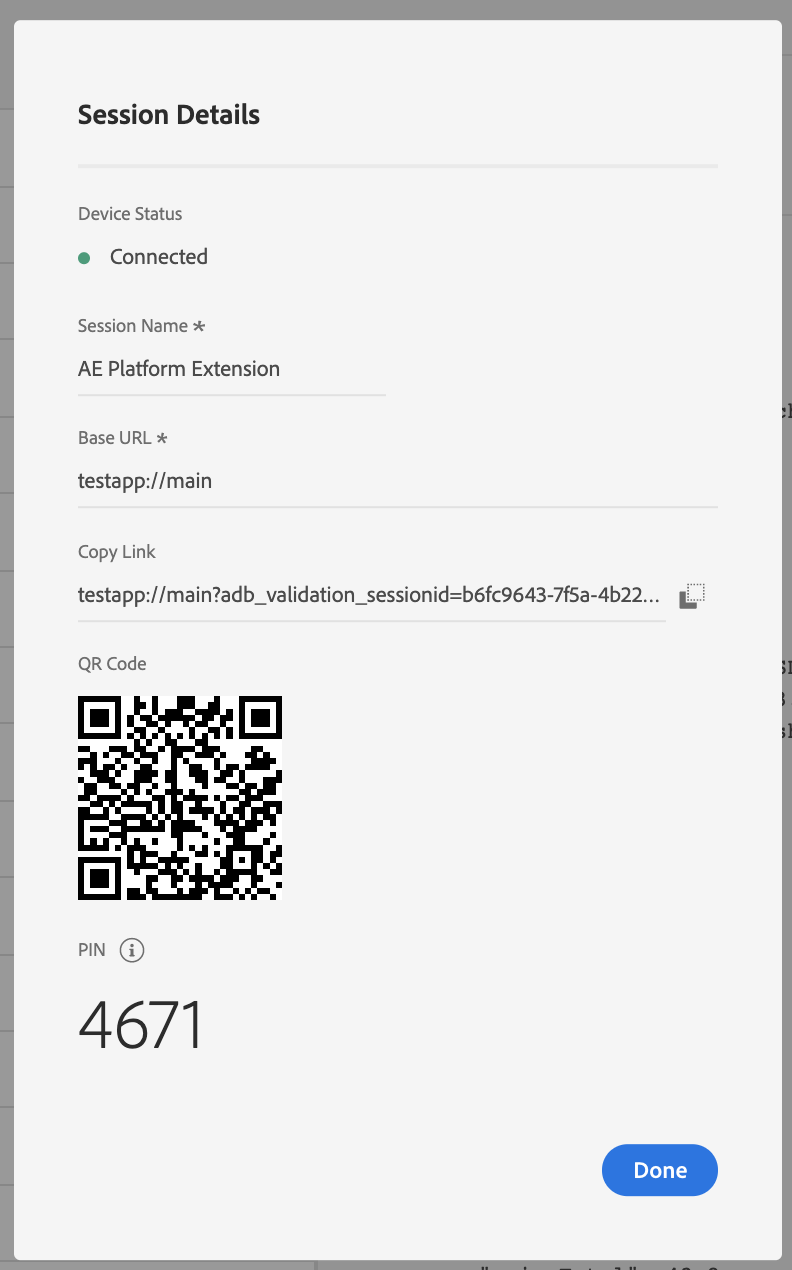
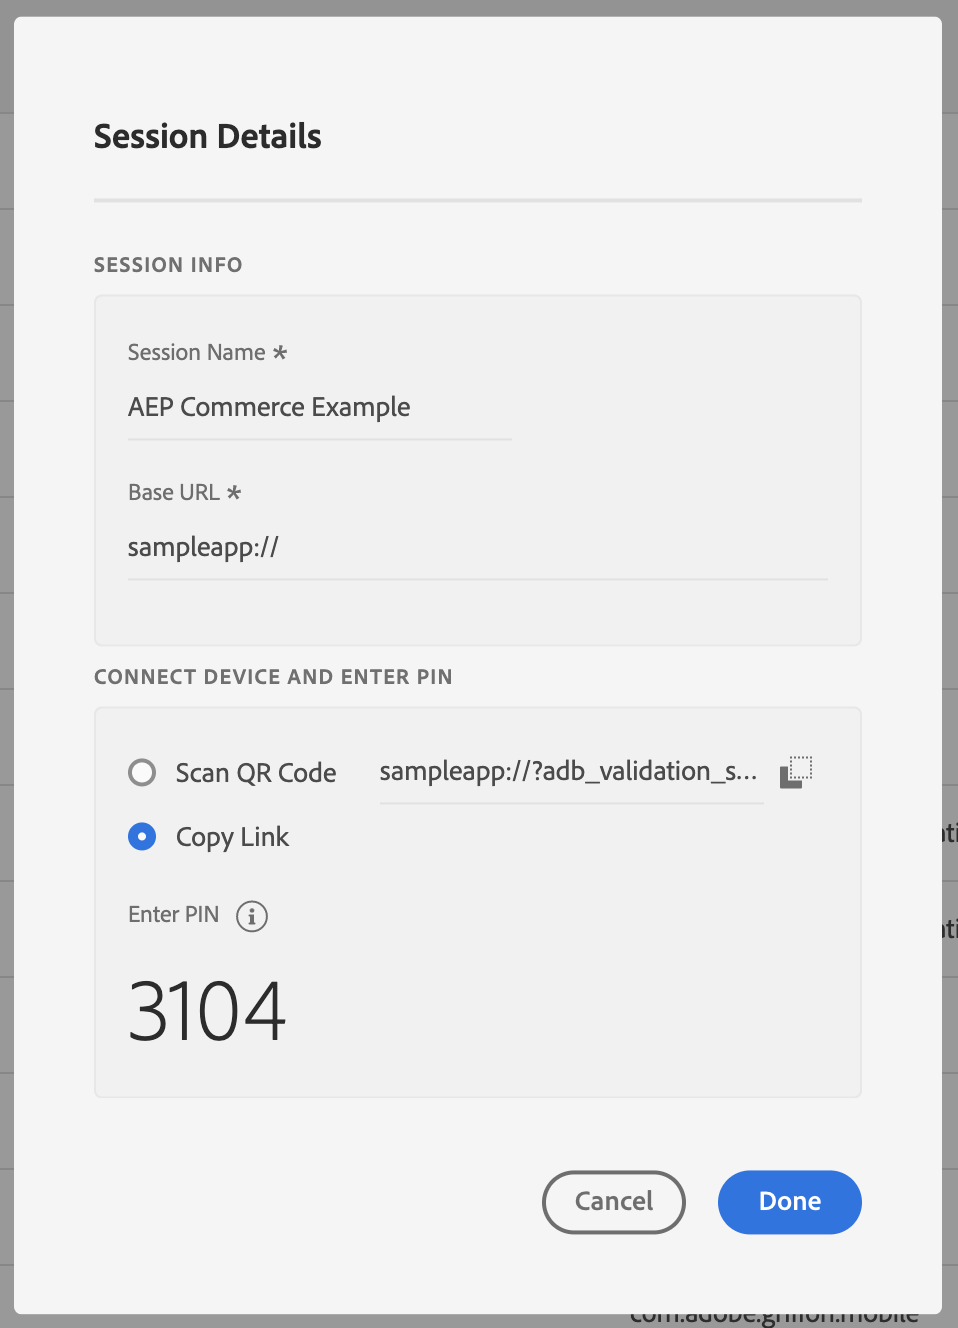
Updates for assignment 1, Launch instructions, Assurance

diff --git a/beta/experience-platform-extension/commerce-demo-app-setup.md b/beta/experience-platform-extension/commerce-demo-app-setup.md
@@ -1,7 +1,7 @@
 # Tutorial - Sample App
 
 {% hint style="warning" %}
-The Adobe Experience Platform - Experience Edge - Mobile extension is currently in beta. Use of this extension is by invitation only. Please contact your Adobe Customer Success Manager to learn more and get access to the materials for this tutorial.
+The Adobe Experience Platform - Experience Edge - Mobile extension is currently in BETA. Use of this extension is by invitation only. Please contact your Adobe Customer Success Manager to learn more and get access to the materials for this tutorial.
 {% endhint %}
 
 This tutorial illustrates how you may send commerce events to Adobe Experience Platform via Experience Edge using the Experience Edge extension.
@@ -10,12 +10,13 @@ This tutorial illustrates how you may send commerce events to Adobe Experience P
 The application is provided in Android and iOS \(Swift\) as part of the beta welcome packet - please contact your beta manager for further detail.
 {% endhint %}
 
-The demo mobile application illustrated here provides a shopping cart example to lets users view product items, update a cart by adding or removing product items, checkout, and complete a purchase.
+The demo mobile application has multiple tabs. For this exercise, the `AEP` and `Assurance` tabs will be used, demonstrating XDM commerce events in a mobile application.
 
 ## Setup the demo app
 
 {% tabs %}
 {% tab title="Android" %}
+
 ### Prerequisites
 
 * Android Studio 3.+ with an Android emulator running Android 7.0+
@@ -32,25 +33,25 @@ The demo mobile application illustrated here provides a shopping cart example to
 {% tab title="iOS" %}
 ### Prerequisites
 
-* Xcode 11.+, Swift 5.+ with an iOS simulator running iOS 10.+
-* CocoaPods 
+* Xcode 11.+, Swift 5.+ with an iOS simulator running iOS 13.+
+* CocoaPods, 1.8.0+
 
 ### Configure and run project
 
-1. Navigate to iOS/demo/AEPCommerceDemoApp
-2. In your terminal run the CocoaPods command and wait for the AEP Mobile SDK to be downloaded:
+1. In your terminal run the CocoaPods command and wait for the AEP Mobile SDK to be downloaded:
 
    ```text
+   $ cd Swift 
    $ pod install
    ```
 
 3. Open AEPCommerceDemoApp.xcworkspace in Xcode:
 
    ```text
-   $ open AEPCommerceDemoApp.xcworkspace
+   $ open AEPSampleApp.xcworkspace
    ```
 
-4. Run the target `AEPCommerceDemoApp` on an iPhone emulator or physical device.
+4. Run the target `AEPSampleApp` on an iPhone emulator or physical device.
 {% endtab %}
 {% endtabs %}
 
@@ -73,7 +74,7 @@ This application uses a default configuration. To configure the Adobe Mobile SDK
 
 This application uses the Experience Platform extension for sending XDM formatted data to the Adobe Experience Edge and so to Adobe Experience Platform. The XDM data is modelled based on the XDM Schemas you have configured in Adobe Experience Platform.
 
-The sample app includes automatically generated source classes for the XDM Objects that define the 3 mixins configured in the previous step. To explore these, check the `MobileSDKCommerceSchema` usage in the `CommerceUtil` class.
+The sample app includes automatically generated source classes for the XDM Objects that define the commerce mixin configured in the previous step. To explore these, check the `MobileSDKCommerceSchema`  class and its usages in `ExperiencePlatformViewController.swift (iOS)` / `PlatformTab.java (Android)`.
 
 **Note:** If you would like to use more complex XDM Schemas for your application, the Mobile SDK team can help generating the XDM classes for your Android or Swift implementation similar with the ones used in the commerce example, so please contact your Adobe representative.
 
@@ -262,27 +263,27 @@ When the user clicks the **Purchase** button, a `commerce.purchases` experience 
 ]
 ```
 
-### Using Project Griffon
+### Using AEP Assurance
 
-Project Griffon is a product from Adobe to help you inspect, validate, and debug data collection and experiences for your mobile application. The demo app is already set up to use Adobe's Project Griffon, which allows you to view the events being sent through the Adobe Mobile SDK.
+AEP Assurance (also known as Project Griffon) is a product from Adobe to help you inspect, validate, and debug data collection and experiences for your mobile application. The demo app is already set up to use Adobe's AEP Assurance mobile extension, which allows you to view the events being sent through the AEP Mobile SDK.
 
-1. To use Project Griffon, follow the [Using Project Griffon](https://aep-sdks.gitbook.io/docs/beta/project-griffon/using-project-griffon) instructions.
-2. When asked for the **Base URL**, enter `testapp://main`.
-3. After starting a Project Griffon session from [https://experience.adobe.com/griffon](https://experience.adobe.com/griffon), click on the the Session Details button on the right corner of the Project Griffon page and copy the session link and note down the PIN.
+1. To use AEP Assurance, follow the [Using Project Griffon](https://aep-sdks.gitbook.io/docs/beta/project-griffon/using-project-griffon) instructions.
+2. When asked for the **Base URL**, enter `sampleapp://`.
+3. After starting an Assurance session from [https://experience.adobe.com/griffon](https://experience.adobe.com/griffon), click on the the Session Details button on the right corner of the Project Griffon page and copy the session link and note down the PIN.
 
    ![](../../.gitbook/assets/Commerce_Session_Details.png)
 
-4. Go to the Adobe Experience Platform mobile extension demo application that is installed on your Android/iOS device or simulator, and click on the Griffon button \(iOS Swift\) / the Settings button -&gt; Connect to Griffon \(Android\) in the top right corner of the app.
-5. This will take you to the Griffon Connect Page. Now, paste the Griffon Session URL that you copied from from [https://experience.adobe.com/griffon](https://experience.adobe.com/griffon), and Click Connect.
+4. Go to the Adobe Experience Platform mobile extension demo application that is installed on your Android/iOS device or simulator, and click on the Assurance tab.
+5. This will take you to the Assurance Connect Page. Now, paste the Assurance Session URL that you copied from [https://experience.adobe.com/griffon](https://experience.adobe.com/griffon), and click `Connect`.
 
    ![](../../.gitbook/assets/Commerce_Griffon_Login.png)
 
-6. Now, this will take you to the Griffon Connect Login Page. Enter the PIN that you noted from from [https://experience.adobe.com/griffon](https://experience.adobe.com/griffon) and Click Connect.
+6. Now, this will take you to the Assurance Connect Login Page. Enter the PIN that you noted from from [https://experience.adobe.com/griffon](https://experience.adobe.com/griffon) and click `Connect`.
 
    ![](../../.gitbook/assets/Commerce_Griffon_Connection.png)
 
-7. Once connected to Griffon, you will see an AEP Icon in red color on the top right corner of the Product List Page. The color of this AEP Icon will become gray if the connectivity to Griffon server is lost for some reason. In this case, you want to reconnect to continue to see the session in Griffon.
-8. In the Griffon session, you should now start seeing events populating the Events List. When navigating through the sample app you should see the Experience events sent to Experience Edge. For more details, refer to [Event types handled by the AEP Mobile extension](https://aep-sdks.gitbook.io/docs/beta/experience-platform-extension/experience-platform-debugging).
+7. Once connected to Assurance, you will see an AEP Icon in red color on the top right corner of the Product List Page. The color of this AEP Icon will become gray if the connectivity to Assurance server is lost for some reason. In this case, you want to reconnect to continue to see the session in the UI.
+8. In the Assurance session, you should now start seeing events populating the Events List. When navigating through the sample app you should see the Experience events sent to Experience Edge. For more details, refer to [Event types handled by the AEP Mobile extension](https://aep-sdks.gitbook.io/docs/beta/experience-platform-extension/experience-platform-debugging).
 
 ### Queries in Experience Platform
 

diff --git a/beta/experience-platform-extension/set-up-the-sdk.md b/beta/experience-platform-extension/set-up-the-sdk.md
@@ -7,7 +7,7 @@ description: >-
 # Implement Experience Edge Extension
 
 {% hint style="warning" %}
-The Adobe Experience Platform - Experience Edge - Mobile extension is currently in beta. Use of this extension is by invitation only. Please contact your Adobe Customer Success Manager to learn more.
+The Adobe Experience Platform - Experience Edge - Mobile extension is currently in BETA. Use of this extension is by invitation only. Please contact your Adobe Customer Success Manager to learn more.
 {% endhint %}
 
 ## Configure the Adobe Experience Platform Mobile SDK
@@ -16,63 +16,40 @@ As a pre-requisite, the Experience Edge extension requires the successful implem
 
 Experience Edge extension relies on the [Mobile Core](../../using-mobile-extensions/mobile-core/) for the transmission of events, managing identity \(ECID\), and triggering client-side rules based on XDM.
 
-If your mobile application doesn't use the Adobe Experience Platform Mobile SDK, follow the steps listed in the Getting Started section of this site to [Set up a mobile property](https://aep-sdks.gitbook.io/docs/getting-started/create-a-mobile-property) and [Get the Experience Platform SDK](https://aep-sdks.gitbook.io/docs/getting-started/get-the-sdk) before you proceed with the steps below.
+1. First, follow these steps to [Set up a mobile property](https://aep-sdks.gitbook.io/docs/getting-started/create-a-mobile-property) in Adobe Experience Platform Launch.
 
-## Setup the Experience Edge extension
+2. Install the Adobe Experience Platform extension from the Catalog. 
+
+3. In the configuration view, select the `Edge Configuration` you created in the previous step (see [Generate Environment Identifier](https://aep-sdks.gitbook.io/docs/beta/experience-platform-extension/experience-platform-setup)) and click `Save`.
+4. Install the `AEP Assurance` extension from the Catalog. 
+
+5. Go to the Publishing Flow menu, select the development library you created and click `Add All Changed Resources`. 
+6. Click `Save & Build for Development` to publish the changes in the Development environment.
+
+## Set up the Experience Edge extension
 
 ### Add Experience Platform extension to your app
 
-You should have received the bundle containing the Android and Swift Experience Platform SDKs as part of your beta welcome packet. In order to get started, reference the SDK in your mobile application as follows:
+You should have received the bundle containing the Android and Swift Experience Platform SDKs as part of the BETA welcome packet. In order to get started, reference the SDK in your mobile application as follows:
 
 {% tabs %}
 {% tab title="Android" %}
 ### Java
 
-1. Create a `libs` folder in your application directory \(ignore this step If you already have this folder\)
-2. Copy the `*.aar` file from the bundle path `/Android/lib/` and paste it in the libs folder
-3. Add the libs folder to the Gradle dependencies. 
+Follow the steps descried in [AEP SDK Sample App Android](https://github.com/adobe/aepsdk-sample-app-android).
 
-### Example
-
-```text
-dependencies {
-    implementation fileTree(dir: 'libs', include: ['*.aar'])
-
-    // Mobile SDK Core Bundle
-    implementation 'com.adobe.marketing.mobile:userprofile:1.+'
-    implementation 'com.adobe.marketing.mobile:sdk-core:1.+'
-    // Project Griffon for debugging
-    implementation 'com.adobe.marketing.mobile:griffon:1.+'
-    ...
-}
-```
 {% endtab %}
 
 {% tab title="iOS" %}
 ### **Swift**
 
-1. Create a `libs` folder in your application directory. If you already have this folder, you can skip this step.
-2. Copy the `*.a` file along with the `*.swiftmodule` folder from the bundle path `/iOS/lib/` and paste it in the libs folder.
-3. In Xcode, add the new library to your project dependencies list. 
-   * Select the mobile application Target and click on Build Phases.
-   * In the Link Binary With Libraries tab, Add new \(+\).
-   * Click Add Other -&gt; Add files, navigate to libs/ folder, select the \*.a file and click Open.
-{% endtab %}
-{% endtabs %}
+Follow the steps described in [AEP SDK Sample App Swift](https://github.com/adobe/aepsdk-sample-app-ios#swift).
 
-### Setup configuration
+### Set up the configuration
 
-In your application's assets folder, [configure a bundle configuration](../../using-mobile-extensions/mobile-core/configuration/#using-a-bundled-file-configuration) called `ADBMobileConfig.json` with the following content:
+In Experience Platform Launch, go to the **Environments** tab in the mobile property created in the previous step (Configure the Adobe Experience Platform Mobile SDK) and click on the Development![img](https://firebasestorage.googleapis.com/v0/b/gitbook-28427.appspot.com/o/assets%2F-Lf1Mc1caFdNCK_mBwhe%2F-Lf1N06T8hdv0-r5jPPN%2F-Lf1N3-ofPO9fLFT1edw%2Fscreen-shot-2018-10-18-at-11.22.17-am.png?generation=1558039279051937&alt=media)icon. Find the Environment File ID at the top and copy it.
 
-```text
-{
-  "experiencePlatform.configId": "CONFIG_ID"
-}
-```
-
-{% hint style="warning" %}
-Replace the CONFIG\_ID with the Experience Edge environment identifier created in the [Create an Experience Edge environment identifier](https://github.com/Adobe-Marketing-Cloud/aep-sdks-documentation/tree/8bb3c402c0b73759dd5143d60051a20c4eda5d79/beta/experience-platform-setup/README.md#create-an-experience-edge-configuration-id) step. This identifier may be found [Adobe Experience Platform Launch](https://launch.adobe.com) under _Edge Configurations_.
-{% endhint %}
+Set the  `LAUNCH_ENVIRONMENT_FILE_ID` to the copied Environment File ID in the `MainApp` (Android) / `AppDelegate` (iOS) class.
 
 ### Register the extension
 
@@ -80,6 +57,7 @@ The `registerExtension` API registers the Experience Edge extension with Mobile 
 
 {% tabs %}
 {% tab title="Android" %}
+
 ### Java
 
 In the Application file's `onCreate()` method, initialize the Mobile Core and register the Experience Platform extension.

diff --git a/beta/experience-platform-extension/tutorials/README.md b/beta/experience-platform-extension/tutorials/README.md
@@ -1,2 +1,2 @@
-# Adobe Experience Platform Mobile SDK Tutorials
+# Adobe Experience Platform Edge Mobile SDK Tutorials
 
